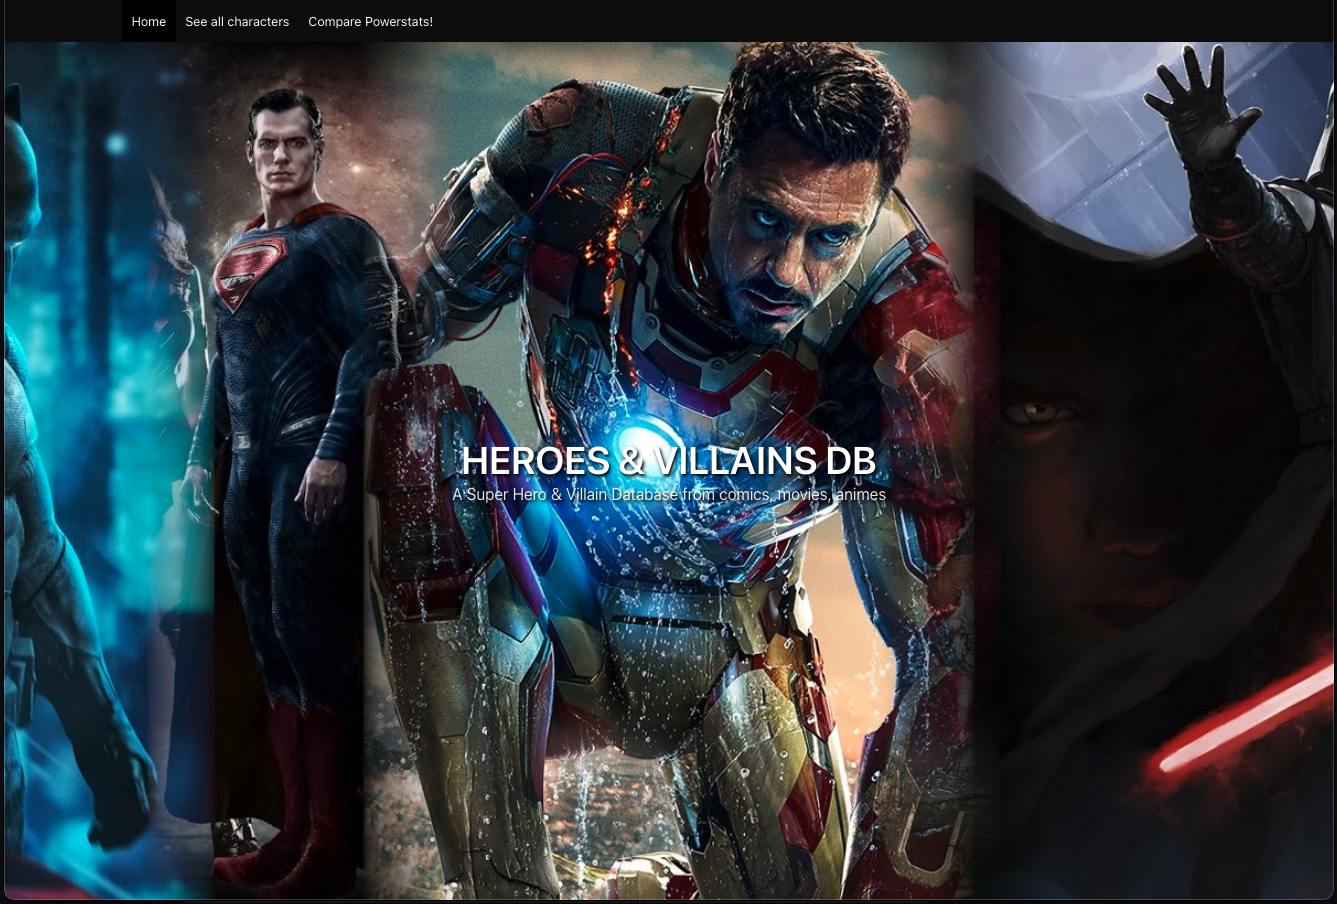
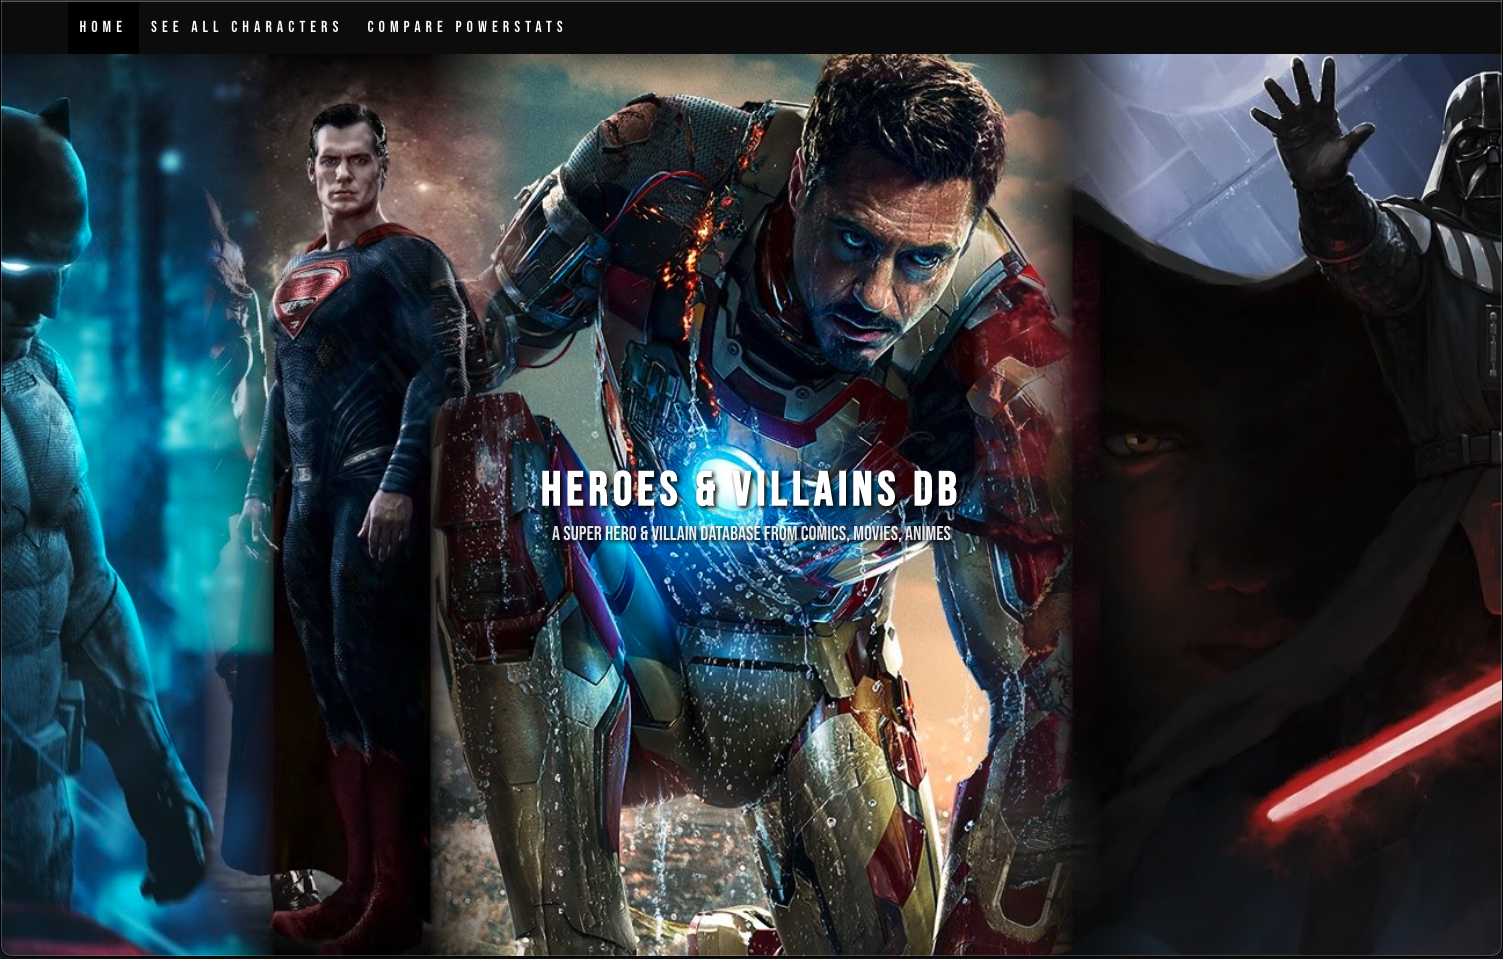
updated screenshots

diff --git a/src/components/characters/CharacterShow.js b/src/components/characters/CharacterShow.js
@@ -39,7 +39,7 @@ function CharacterShow() {
         {character &&
           (
             <div className="character">
-              <div className="heading-name title is-1 has-text-centered bebas-font has-text-weight-bold">{character.name}</div>
+              <div className="heading-space title is-1 has-text-centered bebas-font has-text-weight-bold">{character.name}</div>
               <hr/>
 
               <div className="columns">
@@ -48,13 +48,13 @@ function CharacterShow() {
                     <img src={character.images.lg} alt={character.name}/>
                   </figure>
                   <Link to="/ProfileCompare">
-                    <button className="button is-fullwidth is-dark bebas-font heading-name">Compare Powerstats</button>
+                    <button className="button is-fullwidth is-dark bebas-font heading-space">Compare Powerstats</button>
                   </Link>
                 </div>
 
                 <div className="columns bebas-font">
                   <div className="column has-text-centered">
-                    <h2 className="title is-4 bebas-font heading-name">Powerstats</h2> 
+                    <h2 className="title is-4 bebas-font heading-space">Powerstats</h2> 
                     <div className="columns is-mobile">
 
                       <div className="column">Intelligence
@@ -79,7 +79,7 @@ function CharacterShow() {
                     <hr/>
 
                     <div className="column is-12 has-text-left"> 
-                      <div className="title is-6 pb-4">
+                      <div className="title is-6 pb-4 sub-space">
                         <div>Full Name : {character.biography.fullName}</div><br></br>
                         <div>Gender : {character.appearance.gender}</div><br></br>
                         <div>Race : {character.appearance.race}</div><br></br>

diff --git a/src/components/characters/CharacterCard.js b/src/components/characters/CharacterCard.js
@@ -6,13 +6,18 @@ function CharacterCard({
   characterId }) {
 
   return (
-    <div 
-      className="column is-one-fifth is-one-third-tablet "
-    >
+    <div className="column 
+      is-full-mobile
+      is-half-tablet 
+      is-one-third-desktop
+      is-one-quarter-widescreen 
+      is-one-fifth-fullhd
+      ">
+      
       <Link to={`/characters/${characterId}`}>
-        <div className="card bebas-font">
+        <div className="card bebas-font sub-space">
           <div className="card-header">
-            <h3 className="card-header-title is-uppercase bebas-font heading-name">{name}</h3>
+            <h3 className="card-header-title is-uppercase bebas-font">{name}</h3>
           </div>
           <div className="card-image">
             <figure className="image image-is-1by1">
@@ -21,7 +26,7 @@ function CharacterCard({
           </div>
           <div className="card-content has-text-centered">
             <h5 className="is-italic">{firstAppearance}</h5>
-            <h5 className="has-text-weight-semibold is-uppercase">({publisher})</h5>
+            <h5 className="has-text-weight-semibold is-uppercase title is-5">({publisher})</h5>
             <hr/>
             <h6>Intelligence : {powerstatsIntelligence}</h6>
             <h6>Strength : {powerstatsStrength}</h6>

diff --git a/src/styles/main.scss b/src/styles/main.scss
@@ -1,14 +1,10 @@
-@import url('https://fonts.googleapis.com/css2?family=Bebas+Neue&display=swap');
-// @import url('https://fonts.googleapis.com/css2?family=Bangers&display=swap');
 
-// .body {
-//   font-family: 'Bebas Neue', cursive;
-  // font-family: 'Bangers', cursive;
-// }
+@import url('https://fonts.googleapis.com/css2?family=Bebas+Neue&display=swap');
 
 .bebas-font {
   font-family: 'Bebas Neue', cursive;
 }
+//* * * * * * * * * * * * * * * * * * * * * * * * * * * * * * * * 
 
 .card {
   height: 100%;
@@ -38,19 +34,12 @@ h3.card-header-title {
   color: white;
 }
 
-card-image {
-height: 50px;
-width: 50px;}
-
 .hero {
   background-image: url('https://justpressplay13.files.wordpress.com/2015/01/maxresdefault1.jpg');
   background-repeat: no-repeat;
   background-size: cover;
   background-position: center;
   text-shadow: black 2px 2px 4px;
-
-  // font-family: 'Bangers', cursive;
-  // letter-spacing: 2px;
 }
 
 .select {
@@ -63,9 +52,12 @@ color: black;
   justify-content: center;
 }
 
-
-.heading-name {
+.heading-space {
   letter-spacing: 5px;
+}
+
+.sub-space {
+  letter-spacing: 2px;
 }
 
 .dancing-spidey {
@@ -73,8 +65,5 @@ color: black;
   background-repeat: no-repeat;
   background-position: center;
 }
-
-
-
 
 @import '~bulma/bulma.sass';

diff --git a/src/components/common/Home.js b/src/components/common/Home.js
@@ -3,7 +3,7 @@ function Home() {
     <section className="hero is-fullheight-with-navbar is-dark">
       <div className="hero-body has-text-centered">
         <div className="container">
-          <h1 className="bebas-font heading-name title is-1 has-text-centered">
+          <h1 className="bebas-font heading-space title is-1 has-text-centered">
             HEROES & VILLAINS DB{' '}<span></span>
           </h1>
           <p className="bebas-font subtitle is -3 has-text-centered">A Super Hero & Villain Database from comics, movies, animes</p>

diff --git a/src/components/common/Nav.js b/src/components/common/Nav.js
@@ -23,7 +23,7 @@ function Nav() {
   //*(bulma styling on navbar - navbar-burger is mediaquery-ready for tablet,phones)
 
   return (
-    <nav className="navbar is-black bebas-font heading-name"> 
+    <nav className="navbar is-black bebas-font heading-space"> 
       <div className="container">
         <div className="navbar-brand">
 

diff --git a/src/components/characters/ProfileCompare.js b/src/components/characters/ProfileCompare.js
@@ -9,9 +9,7 @@ function ProfileCompare() {
         <h2>PAGE UNDER CONSTRUCTION</h2>
       </div>
       <p div className="title is-4 has-text-centered">THIS IS WHERE YOU WOULD COMPARE PROFILES</p>
-    
     </section>
-
   )
 }
 

diff --git a/README.md b/README.md
@@ -122,7 +122,7 @@ This was designed to be a clean looking page which would have the app name in th
 Using Bulma, we created a black nav bar to show the pages to the site.
 Whilst building the Navbar, we also set up the mobile responsive side of things / burger menu.
 
-![landingpage mobile responsive](/assets/01mobile.png)
+![landingpage mobile responsive](/assets/01mob.png)
 
 ```js
  return (
@@ -250,9 +250,8 @@ Publisher null in filter
 
 
 ___
-___
 ### PREP / SKETCH
-https://excalidraw.com/#json=463qRv9TCXy_sEpanEslb,aw3FAi-c9CwBaVlQHoh2VA
+
  
 ###DAY 01
 - [X] home page
@@ -286,8 +285,4 @@ https://excalidraw.com/#json=463qRv9TCXy_sEpanEslb,aw3FAi-c9CwBaVlQHoh2VA
 - [ ] bulma styling on search and drop down - how to style so they stretch full width of page on desktop view, and same on mobile view. ~~
 - [X] CharacterShow - retrived data, how to space out height and width from bunching each other.
 - [X] loading="lazy" (does it work? see ).. maybe?
- 
-###EXTRA
-- [ ] LIKE (local storage) *** if time
-- [ ] Revisit this project to work on Profile Compare function and ideally turn into TRUMPS game.
  
